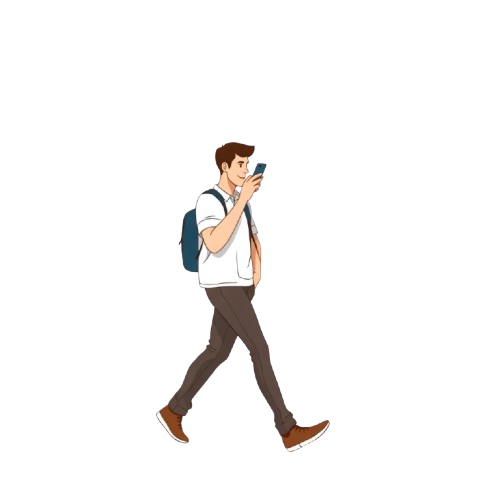
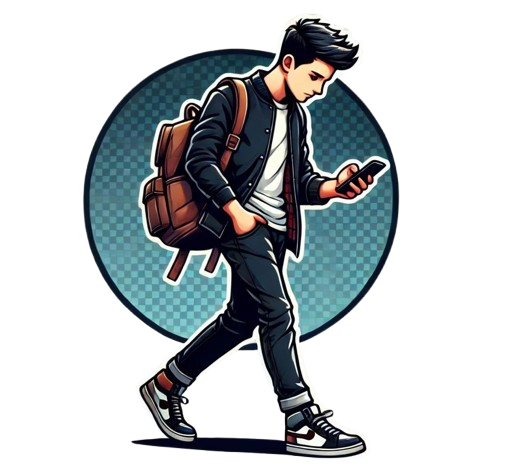
Update styles for intro image. Add features section text and styles.

diff --git a/public/styles/index.css b/public/styles/index.css
@@ -56,7 +56,7 @@ header {
     font-size: 0.8rem;
     font-family: Sans-Serif;
     background: linear-gradient(240deg, var(--color6) 40%, var(--color3) 55%);
-    background-clip: text;
+    -webkit-background-clip: text;
     color: transparent;
     font-weight: 700;
     word-spacing: 2px;
@@ -87,19 +87,98 @@ header {
     color: var(--color2);
     line-height: 1.4rem;
     word-spacing: 2px;
+    letter-spacing: 1px;
+    margin-top: 1rem;
 }
 
 .brandName > h1 {
     text-align: left;
     display: flex;
+    gap: 5px;
     flex-direction: column;
-    font-size: 2rem;
-    padding: 10px 5px;
+    font-size: 2.5rem;
+    text-transform: uppercase;
+    border-left: 3px solid var(--color2);
+    border-radius: 5px;
+    padding-left: 10px;
+    font-weight: 900;
+    letter-spacing: 3px;
+}
+.brandName h1 > span {
+    display: block;
 }
 .brandName span {
-    display: block;
+    width: fit-content;
+    background: linear-gradient(
+        60deg,
+        var(--color2) 30%,
+        var(--color6) 50%,
+        var(--color3) 70%
+    );
+    -webkit-background-clip: text;
+    color: transparent;
 }
 
 .brandName {
     padding-inline: 7vw;
+}
+
+.introImage {
+    display: flex;
+    justify-content: center;
+    align-items: center;
+    margin-top: 1rem;
+    width: 100vw;
+    position: relative;
+}
+.introImage > img {
+    width: 80vw;
+}
+.introImage > img:nth-child(2) {
+    position: absolute;
+    z-index: -1;
+    width: 90%;
+    left: 40px;
+    top: 40px;
+    filter: blur(4px);
+}
+
+.features {
+    margin-top: 3.5rem;
+    padding-inline: 7vw;
+    display: flex;
+    flex-direction: column;
+    align-items: center;
+}
+
+.features h3 {
+    color: var(--color2);
+    text-align: center;
+    margin-bottom: 0.5rem;
+}
+
+.features p {
+    font-size: 0.85rem;
+    line-height: 1.3rem;
+    word-spacing: 3px;
+    letter-spacing: 1px;
+}
+    max-width: 40ch;
+
+.features article {
+    margin-bottom: 2.5rem;
+    display: flex;
+    flex-direction: column;
+    align-items: center;
+    text-align: center;
+    color: #888;
+    padding: 15px 5px;
+    border: 2px solid var(--color3);
+    border-radius: 15px;
+    box-shadow: 0px 0px 5px 1px #666;
+    width: 85vw;
+}
+
+.features article:nth-child(odd) {
+    border: 2px solid var(--color7);
 }
